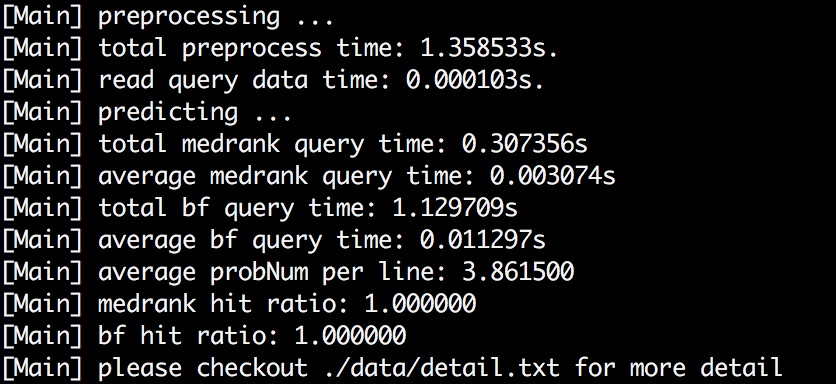
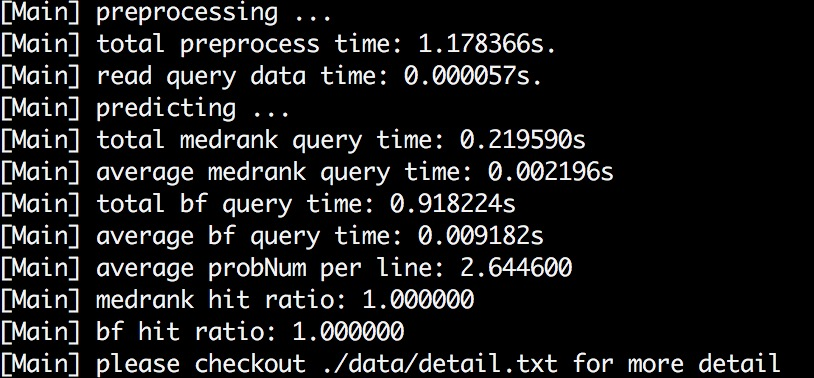
redo experiment-1 for new data set

Changed region(s): [[0.0, 0.0, 0.9521, 1.0]]

diff --git a/README.md b/README.md
@@ -189,12 +189,12 @@ medrank算法部分，这部分基本步骤都跟前面介绍medrank算法时候
 
 |  item\size    |      100      |      500      |      1000     |
 |:-------------:|:-------------:|:-------------:|:-------------:|
-|preprocess     | 1.358533      | 1.346412      | 1.349212      |
-|medrank(total) | 0.307356      | 1.384773      | 2.808646      |
-|medrank(avg)   | 0.003074      | 0.002770      | 0.002809      |
-|bf(total)      | 1.129709      | 5.448235      | 10.875201     |
-|bf(avg)        | 0.011297      | 0.010896      | 0.010875      |
-|medrank prob   | 3.861500      | 3.688300      | 3.778110      |
+|preprocess     | 1.178366      | 1.205243      | 1.144519      |
+|medrank(total) | 0.219590      | 1.212721      | 2.284969      |
+|medrank(avg)   | 0.002196      | 0.002425      | 0.002285      |
+|bf(total)      | 0.918224      | 4.521340      | 8.779360      |
+|bf(avg)        | 0.009182      | 0.009043      | 0.008779      |
+|medrank prob   | 2.644600      | 2.737580      | 2.847660      |
 |hit ratio(m)   | 1.000000      | 1.000000      | 1.000000      |
 |hit ratio(b)   | 1.000000      | 1.000000      | 1.000000      |
 
@@ -208,7 +208,7 @@ medrank算法部分，这部分基本步骤都跟前面介绍medrank算法时候
 * hit ratio(b): 使用暴力算法查询之后预测实体的正确率
 * medrank prob: medrank算法平均每棵b+树索引的数据访问量(单位: 页; 页大小: 1KB)
 
-从实验结果来看，使用medrank算法或者简单的暴力查找算法都能达到预期的正确率，这说明所使用的算法是合理的可行的，能够正确预测出查询对象所属的实体。并且，两种算法的命中率都是一样的，也就是说，正确性不相上下。我们再来看其他指标。medrank算法的查询时间很少，不管是数据量多大，平均每一个查询的时间都维持在0.0029秒左右，而暴力查找算法的时间则是维持在0.011秒左右。由此可见，medrank平均每个查询的查询速度要比普通的暴力查找算法快3.8倍左右。可能平均到一个查询的时间差距不大，我们来看总的查询时间，数据量为100的时候，medrank算法的总的查询时间为0.307秒，暴力查找的时间为1.129秒。随着数据量上升，差距逐渐增大，数据量上升到1000的时候，medrank算法的总查询时间为2.808秒，而暴力算法却需要10.875秒。显然，medrank算法具备强大的时间高效性，随着查询量的增加，时间差距累积扩大十分明显。最后一个指标是medrank算法的探测页面数量，我们计算了medrank算法在查找时访问的数据页面数量，发现平均每棵b+树只需访问3.75页，而一棵b+树索引的总大小为477页，计算一下便可知道，medrank算法在查找时需要访问的数据量仅为0.8%。而暴力算法需要遍历训练集所有数据，数据访问量为100%，使用建立b+树索引的方法显著降低了数据访问量，这也是medrank算法能够快速完成查询的重要原因之一。
+从实验结果来看，使用medrank算法或者简单的暴力查找算法都能达到预期的正确率，这说明所使用的算法是合理的可行的，能够正确预测出查询对象所属的实体。并且，两种算法的命中率都是一样的，也就是说，正确性不相上下。我们再来看其他指标。medrank算法的查询时间很少，不管是数据量多大，平均每一个查询的时间都维持在0.0022秒左右，而暴力查找算法的时间则是维持在0.009秒左右。由此可见，medrank平均每个查询的查询速度要比普通的暴力查找算法快4倍左右。可能平均到一个查询的时间差距不大，我们来看总的查询时间，数据量为100的时候，medrank算法的总的查询时间为0.219秒，暴力查找的时间为0.918秒。随着数据量上升，差距逐渐增大，数据量上升到1000的时候，medrank算法的总查询时间为2.285秒，而暴力算法却需要8.779秒。显然，medrank算法具备强大的时间高效性，随着查询量的增加，时间差距累积扩大十分明显。最后一个指标是medrank算法的探测页面数量，我们计算了medrank算法在查找时访问的数据页面数量，发现平均每棵b+树只需访问2.74页，而一棵b+树索引的总大小为448页，计算一下便可知道，medrank算法在查找时需要访问的数据量仅为0.61%。而暴力算法需要遍历训练集所有数据，数据访问量为100%，使用建立b+树索引的方法显著降低了数据访问量，这也是medrank算法能够快速完成查询的重要原因之一。
 
 // 实验一的数据只有3维却使用了100个b+树索引，比较浪费，可考虑补充低维度数据使用少量索引的实验
 
@@ -225,7 +225,7 @@ medrank算法部分，这部分基本步骤都跟前面介绍medrank算法时候
 |hit ratio(m)   | 0.950000      | 0.955000      | 0.926667      |
 |hit ratio(b)   | 0.960000      | 0.970000      | 0.973333      |
 
-实验二的数据维度为784，可以看到，随着数据的维度增大，处理的时间跟随之变长，不过跟实验一有相同的规律。我们可以看到，medrank算法平均处理一个查询的时间为0.06秒左右，而暴力算法则是0.21秒左右，medrank算法比暴力算法快3.5倍(实验一是3.8，相差不大)。从总的查询时间来看，medrank算法在查询数据量为100时节省时间15.68秒左右，数据量上升到300时节省时间47.14秒左右。随着查询数据量增加，medrank算法带来的时间收益更加显著。medrank算法的平均每一棵b+树索引的页面访问量为105左右，实验二中b+树索引的大小为486页，数据访问量大概为21.6%。虽然相比实验一增加了不少，但还是明显少于暴力算法。这也是因为数据维度增加的关系所以页面访问量也随之增长。最后我们来看一看命中率，medrank算法和暴力算法的命中率都挺高，在这个实验中虽然暴力算法的命中率更高一点点，但是预测存在误差也是合理的，牺牲一点点误差换来性能上的大幅度提升，显然是收益远大于损失，而且能够达到92%~95%左右的命中率也是十分理想的。
+实验二的数据维度为784，可以看到，随着数据的维度增大，处理的时间跟随之变长，不过跟实验一有相同的规律。我们可以看到，medrank算法平均处理一个查询的时间为0.06秒左右，而暴力算法则是0.21秒左右，medrank算法比暴力算法快3.5倍(实验一是4，相差不大)。从总的查询时间来看，medrank算法在查询数据量为100时节省时间15.68秒左右，数据量上升到300时节省时间47.14秒左右。随着查询数据量增加，medrank算法带来的时间收益更加显著。medrank算法的平均每一棵b+树索引的页面访问量为105左右，实验二中b+树索引的大小为486页，数据访问量大概为21.6%。虽然相比实验一增加了不少，但还是明显少于暴力算法。这也是因为数据维度增加的关系所以页面访问量也随之增长。最后我们来看一看命中率，medrank算法和暴力算法的命中率都挺高，在这个实验中虽然暴力算法的命中率更高一点点，但是预测存在误差也是合理的，牺牲一点点误差换来性能上的大幅度提升，显然是收益远大于损失，而且能够达到92%~95%左右的命中率也是十分理想的。
 
 ##总结
 
